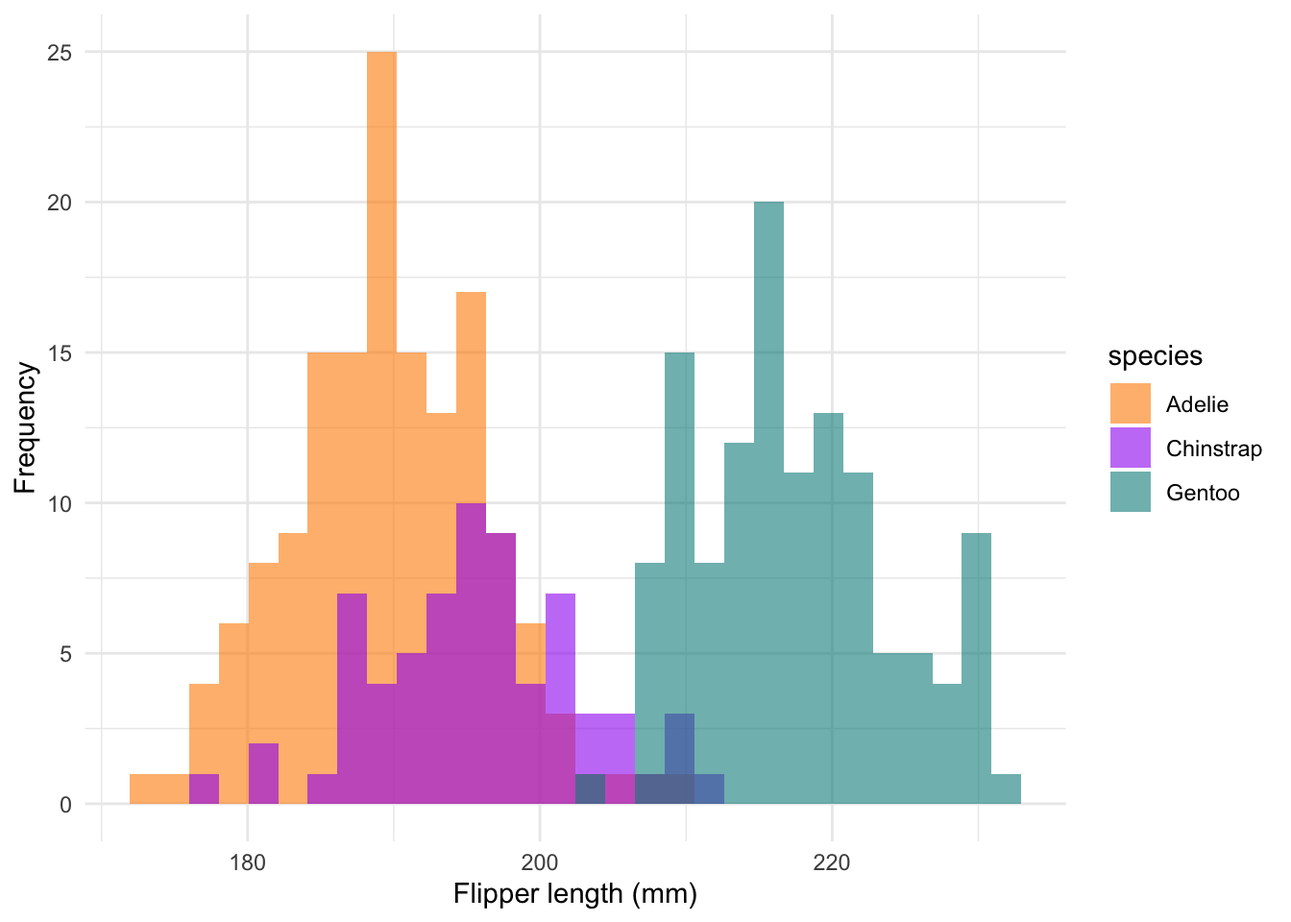
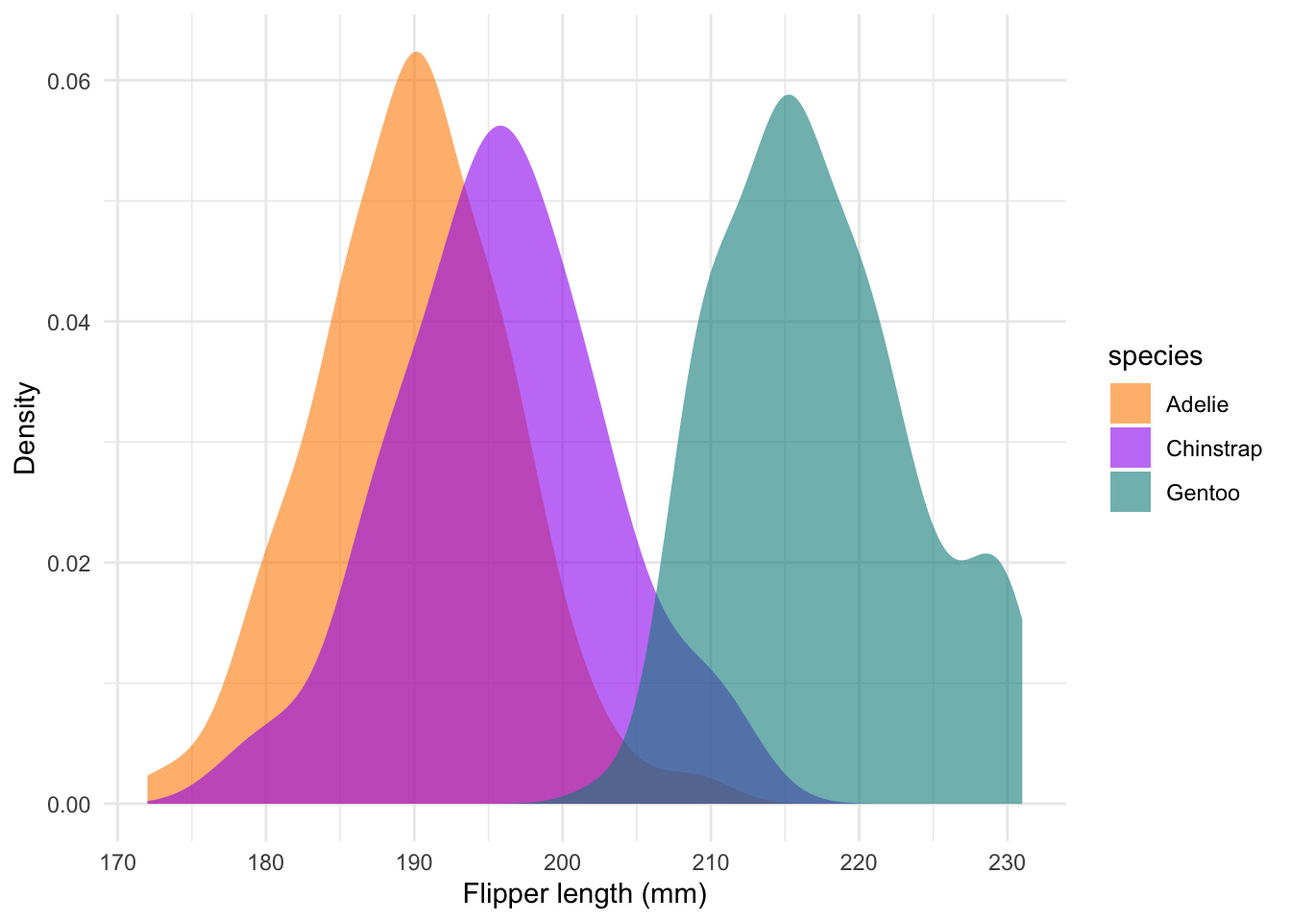
update data vis

diff --git a/docs/Data_visualisation.html b/docs/Data_visualisation.html
@@ -1065,69 +1065,82 @@ more pleasing appearance:</p>
 <span id="cb51-10"><a href="#cb51-10" aria-hidden="true" tabindex="-1"></a>  <span class="fu">labs</span>(<span class="at">x =</span> <span class="st">&quot;Penguin species&quot;</span>, <span class="at">y =</span> <span class="st">&#39;Flipper length (mm)&#39;</span>) <span class="sc">+</span></span>
 <span id="cb51-11"><a href="#cb51-11" aria-hidden="true" tabindex="-1"></a>  <span class="fu">theme_minimal</span>()</span></code></pre></div>
 <p><img src="Data_visualisation_files/figure-html/unnamed-chunk-39-1.png" width="672" /></p>
-<div class="sourceCode" id="cb52"><pre class="sourceCode r"><code class="sourceCode r"><span id="cb52-1"><a href="#cb52-1" aria-hidden="true" tabindex="-1"></a><span class="do">#### Mean points with SD ----</span></span>
-<span id="cb52-2"><a href="#cb52-2" aria-hidden="true" tabindex="-1"></a>penguins <span class="sc">%&gt;%</span> </span>
-<span id="cb52-3"><a href="#cb52-3" aria-hidden="true" tabindex="-1"></a>  <span class="fu">group_by</span>(species) <span class="sc">%&gt;%</span> </span>
-<span id="cb52-4"><a href="#cb52-4" aria-hidden="true" tabindex="-1"></a>  <span class="fu">summarise</span>(<span class="at">flipper_mean =</span> <span class="fu">mean</span>(flipper_length_mm, <span class="at">na.rm =</span> T),</span>
-<span id="cb52-5"><a href="#cb52-5" aria-hidden="true" tabindex="-1"></a>            <span class="at">flipper_sd =</span> <span class="fu">sd</span>(flipper_length_mm, <span class="at">na.rm =</span> T)) <span class="sc">%&gt;%</span> </span>
-<span id="cb52-6"><a href="#cb52-6" aria-hidden="true" tabindex="-1"></a>  <span class="fu">ggplot</span>() <span class="sc">+</span></span>
-<span id="cb52-7"><a href="#cb52-7" aria-hidden="true" tabindex="-1"></a>  <span class="fu">geom_point</span>(<span class="fu">aes</span>(<span class="at">x =</span> species, <span class="at">y =</span> flipper_mean, <span class="at">col =</span> species)) <span class="sc">+</span></span>
-<span id="cb52-8"><a href="#cb52-8" aria-hidden="true" tabindex="-1"></a>  <span class="fu">geom_errorbar</span>(<span class="fu">aes</span>(<span class="at">x =</span> species, <span class="at">ymax =</span> flipper_mean <span class="sc">+</span> flipper_sd, <span class="at">ymin =</span> flipper_mean <span class="sc">-</span> flipper_sd, <span class="at">col =</span> species), <span class="at">width =</span> <span class="fl">0.5</span>) <span class="sc">+</span></span>
-<span id="cb52-9"><a href="#cb52-9" aria-hidden="true" tabindex="-1"></a>  <span class="fu">scale_colour_manual</span>(<span class="at">values =</span> <span class="fu">c</span>(<span class="st">&#39;darkorange&#39;</span>,<span class="st">&#39;purple&#39;</span>,<span class="st">&#39;cyan4&#39;</span>), <span class="at">guide =</span> <span class="st">&#39;none&#39;</span>) <span class="sc">+</span></span>
-<span id="cb52-10"><a href="#cb52-10" aria-hidden="true" tabindex="-1"></a>  <span class="fu">labs</span>(<span class="at">x =</span> <span class="st">&quot;Penguin species&quot;</span>, <span class="at">y =</span> <span class="st">&#39;Flipper length (mm)&#39;</span>) <span class="sc">+</span></span>
-<span id="cb52-11"><a href="#cb52-11" aria-hidden="true" tabindex="-1"></a>  <span class="fu">theme_minimal</span>()</span></code></pre></div>
+<p>Barplots aren’t great. They tend to hide the underlying distribution
+of the data, which is what most people are actually interested in. The
+only time you should use them is when you only have a single value for
+each variable (i.e. no variability). But even then, there are far more
+interesting options (<a
+href="https://towardsdatascience.com/anything-but-bars-the-10-best-alternatives-to-bar-graphs-fecb2aaee53a">HERE</a>
+and <a
+href="https://www.r-bloggers.com/2017/06/bar-plots-and-modern-alternatives/">HERE</a>).
+Read more about why to avoid them <a
+href="https://paulvanderlaken.com/2018/12/17/avoid-bar-plots-for-continuous-data-do-this-instead/">HERE</a>.</p>
+<p>We do have variation in our data, so let’s look at better
+alternatives. First, we have the classic box-and-whisker plots. These
+start to give us a better idea of our distribution:</p>
+<div class="sourceCode" id="cb52"><pre class="sourceCode r"><code class="sourceCode r"><span id="cb52-1"><a href="#cb52-1" aria-hidden="true" tabindex="-1"></a><span class="do">#### Boxplot ----</span></span>
+<span id="cb52-2"><a href="#cb52-2" aria-hidden="true" tabindex="-1"></a><span class="fu">ggplot</span>(penguins) <span class="sc">+</span></span>
+<span id="cb52-3"><a href="#cb52-3" aria-hidden="true" tabindex="-1"></a>  <span class="fu">geom_boxplot</span>(<span class="fu">aes</span>(<span class="at">x =</span> species, <span class="at">y =</span> flipper_length_mm),</span>
+<span id="cb52-4"><a href="#cb52-4" aria-hidden="true" tabindex="-1"></a>               <span class="at">col =</span> <span class="fu">c</span>(<span class="st">&#39;darkorange&#39;</span>,<span class="st">&#39;purple&#39;</span>,<span class="st">&#39;cyan4&#39;</span>)) <span class="sc">+</span></span>
+<span id="cb52-5"><a href="#cb52-5" aria-hidden="true" tabindex="-1"></a>  <span class="fu">labs</span>(<span class="at">x =</span> <span class="st">&quot;Penguin species&quot;</span>, <span class="at">y =</span> <span class="st">&#39;Flipper length (mm)&#39;</span>) <span class="sc">+</span></span>
+<span id="cb52-6"><a href="#cb52-6" aria-hidden="true" tabindex="-1"></a>  <span class="fu">theme_minimal</span>() </span></code></pre></div>
 <p><img src="Data_visualisation_files/figure-html/unnamed-chunk-40-1.png" width="672" /></p>
-<div class="sourceCode" id="cb53"><pre class="sourceCode r"><code class="sourceCode r"><span id="cb53-1"><a href="#cb53-1" aria-hidden="true" tabindex="-1"></a><span class="do">#### Boxplot ----</span></span>
+<p>We’re still not quite there. Histograms are an excellent tool to show
+us the distribution of our data clearly. In the
+<code>geom_histogram()</code> geom, select
+<code>position = 'identity</code> and <code>alpha = 0.6</code> to avoid
+stacked frequency bars and to make overlaps more obvious:</p>
+<div class="sourceCode" id="cb53"><pre class="sourceCode r"><code class="sourceCode r"><span id="cb53-1"><a href="#cb53-1" aria-hidden="true" tabindex="-1"></a><span class="do">#### Histograms ----</span></span>
 <span id="cb53-2"><a href="#cb53-2" aria-hidden="true" tabindex="-1"></a><span class="fu">ggplot</span>(penguins) <span class="sc">+</span></span>
-<span id="cb53-3"><a href="#cb53-3" aria-hidden="true" tabindex="-1"></a>  <span class="fu">geom_boxplot</span>(<span class="fu">aes</span>(<span class="at">x =</span> species, <span class="at">y =</span> flipper_length_mm),</span>
-<span id="cb53-4"><a href="#cb53-4" aria-hidden="true" tabindex="-1"></a>               <span class="at">col =</span> <span class="fu">c</span>(<span class="st">&#39;darkorange&#39;</span>,<span class="st">&#39;purple&#39;</span>,<span class="st">&#39;cyan4&#39;</span>)) <span class="sc">+</span></span>
-<span id="cb53-5"><a href="#cb53-5" aria-hidden="true" tabindex="-1"></a>  <span class="fu">labs</span>(<span class="at">x =</span> <span class="st">&quot;Penguin species&quot;</span>, <span class="at">y =</span> <span class="st">&#39;Flipper length (mm)&#39;</span>) <span class="sc">+</span></span>
-<span id="cb53-6"><a href="#cb53-6" aria-hidden="true" tabindex="-1"></a>  <span class="fu">theme_minimal</span>() </span></code></pre></div>
+<span id="cb53-3"><a href="#cb53-3" aria-hidden="true" tabindex="-1"></a>  <span class="fu">geom_histogram</span>(<span class="fu">aes</span>(<span class="at">x =</span> flipper_length_mm, <span class="at">fill =</span> species), <span class="at">position =</span> <span class="st">&#39;identity&#39;</span>, <span class="at">alpha =</span> <span class="fl">0.6</span>) <span class="sc">+</span></span>
+<span id="cb53-4"><a href="#cb53-4" aria-hidden="true" tabindex="-1"></a>  <span class="fu">scale_fill_manual</span>(<span class="at">values =</span> <span class="fu">c</span>(<span class="st">&#39;darkorange&#39;</span>,<span class="st">&#39;purple&#39;</span>,<span class="st">&#39;cyan4&#39;</span>)) <span class="sc">+</span></span>
+<span id="cb53-5"><a href="#cb53-5" aria-hidden="true" tabindex="-1"></a>  <span class="fu">labs</span>(<span class="at">x =</span> <span class="st">&#39;Flipper length (mm)&#39;</span>, <span class="at">y =</span> <span class="st">&#39;Frequency&#39;</span>) <span class="sc">+</span></span>
+<span id="cb53-6"><a href="#cb53-6" aria-hidden="true" tabindex="-1"></a>  <span class="fu">theme_minimal</span>()</span></code></pre></div>
 <p><img src="Data_visualisation_files/figure-html/unnamed-chunk-41-1.png" width="672" /></p>
-<div class="sourceCode" id="cb54"><pre class="sourceCode r"><code class="sourceCode r"><span id="cb54-1"><a href="#cb54-1" aria-hidden="true" tabindex="-1"></a><span class="do">#### Histograms ----</span></span>
+<p>We could also use density plots, which essentially show a smoothed
+histogram output:</p>
+<div class="sourceCode" id="cb54"><pre class="sourceCode r"><code class="sourceCode r"><span id="cb54-1"><a href="#cb54-1" aria-hidden="true" tabindex="-1"></a><span class="do">#### Density ----</span></span>
 <span id="cb54-2"><a href="#cb54-2" aria-hidden="true" tabindex="-1"></a><span class="fu">ggplot</span>(penguins) <span class="sc">+</span></span>
-<span id="cb54-3"><a href="#cb54-3" aria-hidden="true" tabindex="-1"></a>  <span class="fu">geom_histogram</span>(<span class="fu">aes</span>(<span class="at">x =</span> flipper_length_mm, <span class="at">fill =</span> species), <span class="at">position =</span> <span class="st">&#39;identity&#39;</span>, <span class="at">alpha =</span> <span class="fl">0.6</span>) <span class="sc">+</span></span>
+<span id="cb54-3"><a href="#cb54-3" aria-hidden="true" tabindex="-1"></a>  <span class="fu">geom_density</span>(<span class="fu">aes</span>(<span class="at">x =</span> flipper_length_mm, <span class="at">fill =</span> species), <span class="at">col =</span> <span class="cn">NA</span>, <span class="at">alpha =</span> <span class="fl">0.6</span>) <span class="sc">+</span></span>
 <span id="cb54-4"><a href="#cb54-4" aria-hidden="true" tabindex="-1"></a>  <span class="fu">scale_fill_manual</span>(<span class="at">values =</span> <span class="fu">c</span>(<span class="st">&#39;darkorange&#39;</span>,<span class="st">&#39;purple&#39;</span>,<span class="st">&#39;cyan4&#39;</span>)) <span class="sc">+</span></span>
-<span id="cb54-5"><a href="#cb54-5" aria-hidden="true" tabindex="-1"></a>  <span class="fu">labs</span>(<span class="at">x =</span> <span class="st">&#39;Flipper length (mm)&#39;</span>, <span class="at">y =</span> <span class="st">&#39;Frequency&#39;</span>) <span class="sc">+</span></span>
+<span id="cb54-5"><a href="#cb54-5" aria-hidden="true" tabindex="-1"></a>  <span class="fu">labs</span>(<span class="at">x =</span> <span class="st">&#39;Flipper length (mm)&#39;</span>, <span class="at">y =</span> <span class="st">&#39;Density&#39;</span>) <span class="sc">+</span></span>
 <span id="cb54-6"><a href="#cb54-6" aria-hidden="true" tabindex="-1"></a>  <span class="fu">theme_minimal</span>()</span></code></pre></div>
 <p><img src="Data_visualisation_files/figure-html/unnamed-chunk-42-1.png" width="672" /></p>
-<div class="sourceCode" id="cb55"><pre class="sourceCode r"><code class="sourceCode r"><span id="cb55-1"><a href="#cb55-1" aria-hidden="true" tabindex="-1"></a><span class="do">#### Density ----</span></span>
+<p>There are several R packages which work together with
+<code>ggplot2</code>. In this example, we use the
+<code>geom_density_ridges()</code> function from the
+<code>ggridges</code> package. This places each density ridge on its own
+line:</p>
+<div class="sourceCode" id="cb55"><pre class="sourceCode r"><code class="sourceCode r"><span id="cb55-1"><a href="#cb55-1" aria-hidden="true" tabindex="-1"></a><span class="do">#### Ridges ----</span></span>
 <span id="cb55-2"><a href="#cb55-2" aria-hidden="true" tabindex="-1"></a><span class="fu">ggplot</span>(penguins) <span class="sc">+</span></span>
-<span id="cb55-3"><a href="#cb55-3" aria-hidden="true" tabindex="-1"></a>  <span class="fu">geom_density</span>(<span class="fu">aes</span>(<span class="at">x =</span> flipper_length_mm, <span class="at">fill =</span> species), <span class="at">col =</span> <span class="cn">NA</span>, <span class="at">alpha =</span> <span class="fl">0.6</span>) <span class="sc">+</span></span>
+<span id="cb55-3"><a href="#cb55-3" aria-hidden="true" tabindex="-1"></a>  <span class="fu">geom_density_ridges</span>(<span class="fu">aes</span>(<span class="at">x =</span> flipper_length_mm, <span class="at">y =</span> species, <span class="at">fill =</span> species), <span class="at">col =</span> <span class="cn">NA</span>, <span class="at">alpha =</span> <span class="fl">0.6</span>) <span class="sc">+</span></span>
 <span id="cb55-4"><a href="#cb55-4" aria-hidden="true" tabindex="-1"></a>  <span class="fu">scale_fill_manual</span>(<span class="at">values =</span> <span class="fu">c</span>(<span class="st">&#39;darkorange&#39;</span>,<span class="st">&#39;purple&#39;</span>,<span class="st">&#39;cyan4&#39;</span>)) <span class="sc">+</span></span>
 <span id="cb55-5"><a href="#cb55-5" aria-hidden="true" tabindex="-1"></a>  <span class="fu">labs</span>(<span class="at">x =</span> <span class="st">&#39;Flipper length (mm)&#39;</span>, <span class="at">y =</span> <span class="st">&#39;Density&#39;</span>) <span class="sc">+</span></span>
 <span id="cb55-6"><a href="#cb55-6" aria-hidden="true" tabindex="-1"></a>  <span class="fu">theme_minimal</span>()</span></code></pre></div>
 <p><img src="Data_visualisation_files/figure-html/unnamed-chunk-43-1.png" width="672" /></p>
-<div class="sourceCode" id="cb56"><pre class="sourceCode r"><code class="sourceCode r"><span id="cb56-1"><a href="#cb56-1" aria-hidden="true" tabindex="-1"></a><span class="do">#### Ridges ----</span></span>
-<span id="cb56-2"><a href="#cb56-2" aria-hidden="true" tabindex="-1"></a><span class="fu">ggplot</span>(penguins) <span class="sc">+</span></span>
-<span id="cb56-3"><a href="#cb56-3" aria-hidden="true" tabindex="-1"></a>  <span class="fu">geom_density_ridges</span>(<span class="fu">aes</span>(<span class="at">x =</span> flipper_length_mm, <span class="at">y =</span> species, <span class="at">fill =</span> species), <span class="at">col =</span> <span class="cn">NA</span>, <span class="at">alpha =</span> <span class="fl">0.6</span>) <span class="sc">+</span></span>
-<span id="cb56-4"><a href="#cb56-4" aria-hidden="true" tabindex="-1"></a>  <span class="fu">scale_fill_manual</span>(<span class="at">values =</span> <span class="fu">c</span>(<span class="st">&#39;darkorange&#39;</span>,<span class="st">&#39;purple&#39;</span>,<span class="st">&#39;cyan4&#39;</span>)) <span class="sc">+</span></span>
-<span id="cb56-5"><a href="#cb56-5" aria-hidden="true" tabindex="-1"></a>  <span class="fu">labs</span>(<span class="at">x =</span> <span class="st">&#39;Flipper length (mm)&#39;</span>, <span class="at">y =</span> <span class="st">&#39;Density&#39;</span>) <span class="sc">+</span></span>
-<span id="cb56-6"><a href="#cb56-6" aria-hidden="true" tabindex="-1"></a>  <span class="fu">theme_minimal</span>()</span></code></pre></div>
+<div class="sourceCode" id="cb56"><pre class="sourceCode r"><code class="sourceCode r"><span id="cb56-1"><a href="#cb56-1" aria-hidden="true" tabindex="-1"></a><span class="do">#### Lollipop chart ----</span></span>
+<span id="cb56-2"><a href="#cb56-2" aria-hidden="true" tabindex="-1"></a>flipper_mean_all <span class="ot">&lt;-</span> <span class="fu">mean</span>(penguins<span class="sc">$</span>flipper_length_mm, <span class="at">na.rm =</span> T)</span>
+<span id="cb56-3"><a href="#cb56-3" aria-hidden="true" tabindex="-1"></a></span>
+<span id="cb56-4"><a href="#cb56-4" aria-hidden="true" tabindex="-1"></a>peng_summary <span class="ot">&lt;-</span> penguins <span class="sc">%&gt;%</span> </span>
+<span id="cb56-5"><a href="#cb56-5" aria-hidden="true" tabindex="-1"></a>  <span class="fu">group_by</span>(species) <span class="sc">%&gt;%</span> </span>
+<span id="cb56-6"><a href="#cb56-6" aria-hidden="true" tabindex="-1"></a>  <span class="fu">summarise</span>(<span class="at">flipper_mean =</span> <span class="fu">mean</span>(flipper_length_mm, <span class="at">na.rm =</span> T),</span>
+<span id="cb56-7"><a href="#cb56-7" aria-hidden="true" tabindex="-1"></a>            <span class="at">flipper_sd =</span> <span class="fu">sd</span>(flipper_length_mm, <span class="at">na.rm =</span> T)) </span>
+<span id="cb56-8"><a href="#cb56-8" aria-hidden="true" tabindex="-1"></a></span>
+<span id="cb56-9"><a href="#cb56-9" aria-hidden="true" tabindex="-1"></a><span class="fu">ggplot</span>() <span class="sc">+</span></span>
+<span id="cb56-10"><a href="#cb56-10" aria-hidden="true" tabindex="-1"></a>   <span class="fu">geom_segment</span>(<span class="at">data =</span> peng_summary, <span class="fu">aes</span>(<span class="at">x =</span> species, <span class="at">xend =</span> species,</span>
+<span id="cb56-11"><a href="#cb56-11" aria-hidden="true" tabindex="-1"></a>                    <span class="at">y =</span> flipper_mean_all, <span class="at">yend =</span> flipper_mean, <span class="at">col =</span> species)) <span class="sc">+</span></span>
+<span id="cb56-12"><a href="#cb56-12" aria-hidden="true" tabindex="-1"></a>  <span class="fu">geom_point</span>(<span class="at">data =</span> peng_summary, <span class="fu">aes</span>(<span class="at">x =</span> species, <span class="at">y =</span> flipper_mean, <span class="at">col =</span> species)) <span class="sc">+</span></span>
+<span id="cb56-13"><a href="#cb56-13" aria-hidden="true" tabindex="-1"></a>  <span class="fu">scale_color_manual</span>(<span class="at">values =</span> <span class="fu">c</span>(<span class="st">&#39;darkorange&#39;</span>,<span class="st">&#39;purple&#39;</span>,<span class="st">&#39;cyan4&#39;</span>), <span class="at">name =</span> <span class="st">&#39;Penguin species&#39;</span>) <span class="sc">+</span></span>
+<span id="cb56-14"><a href="#cb56-14" aria-hidden="true" tabindex="-1"></a>  <span class="fu">geom_hline</span>(<span class="fu">aes</span>(<span class="at">yintercept =</span> flipper_mean_all), <span class="at">lty =</span> <span class="dv">2</span>) <span class="sc">+</span></span>
+<span id="cb56-15"><a href="#cb56-15" aria-hidden="true" tabindex="-1"></a>  <span class="fu">labs</span>(<span class="at">x =</span> <span class="st">&#39;&#39;</span>, <span class="at">y =</span> <span class="st">&#39;Mean flipper length (mm)&#39;</span>) <span class="sc">+</span></span>
+<span id="cb56-16"><a href="#cb56-16" aria-hidden="true" tabindex="-1"></a>  <span class="fu">coord_flip</span>() <span class="sc">+</span></span>
+<span id="cb56-17"><a href="#cb56-17" aria-hidden="true" tabindex="-1"></a>  <span class="fu">theme_bw</span>() <span class="sc">+</span></span>
+<span id="cb56-18"><a href="#cb56-18" aria-hidden="true" tabindex="-1"></a>  <span class="fu">theme</span>(<span class="at">panel.grid =</span> <span class="fu">element_blank</span>(),</span>
+<span id="cb56-19"><a href="#cb56-19" aria-hidden="true" tabindex="-1"></a>        <span class="at">axis.text.y =</span> <span class="fu">element_blank</span>(),</span>
+<span id="cb56-20"><a href="#cb56-20" aria-hidden="true" tabindex="-1"></a>        <span class="at">axis.ticks.y =</span> <span class="fu">element_blank</span>(),</span>
+<span id="cb56-21"><a href="#cb56-21" aria-hidden="true" tabindex="-1"></a>        <span class="at">legend.position =</span> <span class="st">&#39;top&#39;</span>) <span class="sc">+</span></span>
+<span id="cb56-22"><a href="#cb56-22" aria-hidden="true" tabindex="-1"></a>  <span class="fu">geom_text_repel</span>(<span class="fu">aes</span>(<span class="at">x =</span> <span class="fl">1.5</span>, <span class="at">y =</span> flipper_mean_all, <span class="at">label =</span> <span class="st">&#39;overall mean&#39;</span>), <span class="at">nudge_x =</span> <span class="fl">0.5</span>, <span class="at">nudge_y =</span> <span class="fl">7.5</span>, <span class="at">segment.curvature =</span> <span class="sc">-</span><span class="fl">0.1</span>, <span class="at">size =</span> <span class="dv">3</span>, <span class="at">segment.size =</span> <span class="fl">0.2</span>)</span></code></pre></div>
 <p><img src="Data_visualisation_files/figure-html/unnamed-chunk-44-1.png" width="672" /></p>
-<div class="sourceCode" id="cb57"><pre class="sourceCode r"><code class="sourceCode r"><span id="cb57-1"><a href="#cb57-1" aria-hidden="true" tabindex="-1"></a><span class="do">#### Lollipop chart ----</span></span>
-<span id="cb57-2"><a href="#cb57-2" aria-hidden="true" tabindex="-1"></a>flipper_mean_all <span class="ot">&lt;-</span> <span class="fu">mean</span>(penguins<span class="sc">$</span>flipper_length_mm, <span class="at">na.rm =</span> T)</span>
-<span id="cb57-3"><a href="#cb57-3" aria-hidden="true" tabindex="-1"></a></span>
-<span id="cb57-4"><a href="#cb57-4" aria-hidden="true" tabindex="-1"></a>peng_summary <span class="ot">&lt;-</span> penguins <span class="sc">%&gt;%</span> </span>
-<span id="cb57-5"><a href="#cb57-5" aria-hidden="true" tabindex="-1"></a>  <span class="fu">group_by</span>(species) <span class="sc">%&gt;%</span> </span>
-<span id="cb57-6"><a href="#cb57-6" aria-hidden="true" tabindex="-1"></a>  <span class="fu">summarise</span>(<span class="at">flipper_mean =</span> <span class="fu">mean</span>(flipper_length_mm, <span class="at">na.rm =</span> T),</span>
-<span id="cb57-7"><a href="#cb57-7" aria-hidden="true" tabindex="-1"></a>            <span class="at">flipper_sd =</span> <span class="fu">sd</span>(flipper_length_mm, <span class="at">na.rm =</span> T)) </span>
-<span id="cb57-8"><a href="#cb57-8" aria-hidden="true" tabindex="-1"></a></span>
-<span id="cb57-9"><a href="#cb57-9" aria-hidden="true" tabindex="-1"></a><span class="fu">ggplot</span>() <span class="sc">+</span></span>
-<span id="cb57-10"><a href="#cb57-10" aria-hidden="true" tabindex="-1"></a>   <span class="fu">geom_segment</span>(<span class="at">data =</span> peng_summary, <span class="fu">aes</span>(<span class="at">x =</span> species, <span class="at">xend =</span> species,</span>
-<span id="cb57-11"><a href="#cb57-11" aria-hidden="true" tabindex="-1"></a>                    <span class="at">y =</span> flipper_mean_all, <span class="at">yend =</span> flipper_mean, <span class="at">col =</span> species)) <span class="sc">+</span></span>
-<span id="cb57-12"><a href="#cb57-12" aria-hidden="true" tabindex="-1"></a>  <span class="fu">geom_point</span>(<span class="at">data =</span> peng_summary, <span class="fu">aes</span>(<span class="at">x =</span> species, <span class="at">y =</span> flipper_mean, <span class="at">col =</span> species)) <span class="sc">+</span></span>
-<span id="cb57-13"><a href="#cb57-13" aria-hidden="true" tabindex="-1"></a>  <span class="fu">scale_color_manual</span>(<span class="at">values =</span> <span class="fu">c</span>(<span class="st">&#39;darkorange&#39;</span>,<span class="st">&#39;purple&#39;</span>,<span class="st">&#39;cyan4&#39;</span>), <span class="at">name =</span> <span class="st">&#39;Penguin species&#39;</span>) <span class="sc">+</span></span>
-<span id="cb57-14"><a href="#cb57-14" aria-hidden="true" tabindex="-1"></a>  <span class="fu">geom_hline</span>(<span class="fu">aes</span>(<span class="at">yintercept =</span> flipper_mean_all), <span class="at">lty =</span> <span class="dv">2</span>) <span class="sc">+</span></span>
-<span id="cb57-15"><a href="#cb57-15" aria-hidden="true" tabindex="-1"></a>  <span class="fu">labs</span>(<span class="at">x =</span> <span class="st">&#39;&#39;</span>, <span class="at">y =</span> <span class="st">&#39;Mean flipper length (mm)&#39;</span>) <span class="sc">+</span></span>
-<span id="cb57-16"><a href="#cb57-16" aria-hidden="true" tabindex="-1"></a>  <span class="fu">coord_flip</span>() <span class="sc">+</span></span>
-<span id="cb57-17"><a href="#cb57-17" aria-hidden="true" tabindex="-1"></a>  <span class="fu">theme_bw</span>() <span class="sc">+</span></span>
-<span id="cb57-18"><a href="#cb57-18" aria-hidden="true" tabindex="-1"></a>  <span class="fu">theme</span>(<span class="at">panel.grid =</span> <span class="fu">element_blank</span>(),</span>
-<span id="cb57-19"><a href="#cb57-19" aria-hidden="true" tabindex="-1"></a>        <span class="at">axis.text.y =</span> <span class="fu">element_blank</span>(),</span>
-<span id="cb57-20"><a href="#cb57-20" aria-hidden="true" tabindex="-1"></a>        <span class="at">axis.ticks.y =</span> <span class="fu">element_blank</span>(),</span>
-<span id="cb57-21"><a href="#cb57-21" aria-hidden="true" tabindex="-1"></a>        <span class="at">legend.position =</span> <span class="st">&#39;top&#39;</span>) <span class="sc">+</span></span>
-<span id="cb57-22"><a href="#cb57-22" aria-hidden="true" tabindex="-1"></a>  <span class="fu">geom_text_repel</span>(<span class="fu">aes</span>(<span class="at">x =</span> <span class="fl">1.5</span>, <span class="at">y =</span> flipper_mean_all, <span class="at">label =</span> <span class="st">&#39;overall mean&#39;</span>), <span class="at">nudge_x =</span> <span class="fl">0.5</span>, <span class="at">nudge_y =</span> <span class="fl">7.5</span>, <span class="at">segment.curvature =</span> <span class="sc">-</span><span class="fl">0.1</span>, <span class="at">size =</span> <span class="dv">3</span>, <span class="at">segment.size =</span> <span class="fl">0.2</span>)</span></code></pre></div>
-<p><img src="Data_visualisation_files/figure-html/unnamed-chunk-45-1.png" width="672" /></p>
 </div>
 
 

diff --git a/docs/index.html b/docs/index.html
@@ -9,7 +9,10 @@
 <meta http-equiv="X-UA-Compatible" content="IE=EDGE" />
 
 
+<meta name="author" content="Joseph White" />
+<meta name="author" content="Refilwe Kai" />
 
+<meta name="date" content="2022-06-13" />
 
 <title>R Workshop</title>
 
@@ -276,6 +279,9 @@ $(document).ready(function () {
 
 
 <h1 class="title toc-ignore">R Workshop</h1>
+<h4 class="author">Joseph White</h4>
+<h4 class="author">Refilwe Kai</h4>
+<h4 class="date">13 June 2022</h4>
 
 </div>
 
@@ -300,27 +306,6 @@ practices.</p>
 </div>
 <div id="getting-started" class="section level1">
 <h1>Getting started</h1>
-<div id="r-studio-cloud" class="section level2">
-<h2>R Studio Cloud</h2>
-<p>Go to <a href="https://rstudio.cloud/">R Studio Cloud</a>. Either
-<strong>Sign Up</strong> or as you have already run a practical here
-before, <strong>Log In</strong> to your account.</p>
-<p>Once you have logged in, click on <strong>New Project</strong> in the
-top right corner. Select <strong>New Project from Git
-Repository</strong>. Copy and paste this link into the open space: <a
-href="https://github.com/jdmwhite/R_workshop"
-class="uri">https://github.com/jdmwhite/R_workshop</a></p>
-<p>Wait for the project to deploy (this may take a couple of minutes).
-Once it has opened, open the <strong>scripts</strong> folder and then
-click on any <code>.R</code> file to explore the code.</p>
-<p>You can now run the code, either using (CONTROL + ENTER/CMD + ENTER)
-or click the <strong>Run</strong> button in the top middle of your
-screen.</p>
-<p>Make sure to <strong>LOG OUT</strong> of your R Studio Cloud session
-when you are finished using the platform. You are granted 25 free hours
-per month. But these hours will be depleted quickly if you don’t log
-out!</p>
-</div>
 <div id="r-studio-run-locally-on-your-computer" class="section level2">
 <h2>R Studio run locally on your computer</h2>
 <ul>
@@ -344,8 +329,28 @@ automatically open R Studio and begin your session. Once it has opened,
 open the <strong>scripts</strong> folder and then click on any
 <code>.R</code> file. You can now run the code, either using (CONTROL +
 ENTER/CMD + ENTER) or click the <strong>Run</strong> button in the top
-middle of your screen (as shown above in the R Studio Cloud
-example).</p>
+middle of your screen.</p>
+</div>
+<div id="r-studio-cloud" class="section level2">
+<h2>R Studio Cloud</h2>
+<p>Go to <a href="https://rstudio.cloud/">R Studio Cloud</a>. Either
+<strong>Sign Up</strong> or as you have already run a practical here
+before, <strong>Log In</strong> to your account.</p>
+<p>Once you have logged in, click on <strong>New Project</strong> in the
+top right corner. Select <strong>New Project from Git
+Repository</strong>. Copy and paste this link into the open space: <a
+href="https://github.com/jdmwhite/R_workshop"
+class="uri">https://github.com/jdmwhite/R_workshop</a></p>
+<p>Wait for the project to deploy (this may take a couple of minutes).
+Once it has opened, open the <strong>scripts</strong> folder and then
+click on any <code>.R</code> file to explore the code.</p>
+<p>You can now run the code, either using (CONTROL + ENTER/CMD + ENTER)
+or click the <strong>Run</strong> button in the top middle of your
+screen.</p>
+<p>Make sure to <strong>LOG OUT</strong> of your R Studio Cloud session
+when you are finished using the platform. You are granted 25 free hours
+per month. But these hours will be depleted quickly if you don’t log
+out!</p>
 </div>
 </div>
 <div id="additional-resources" class="section level1">
